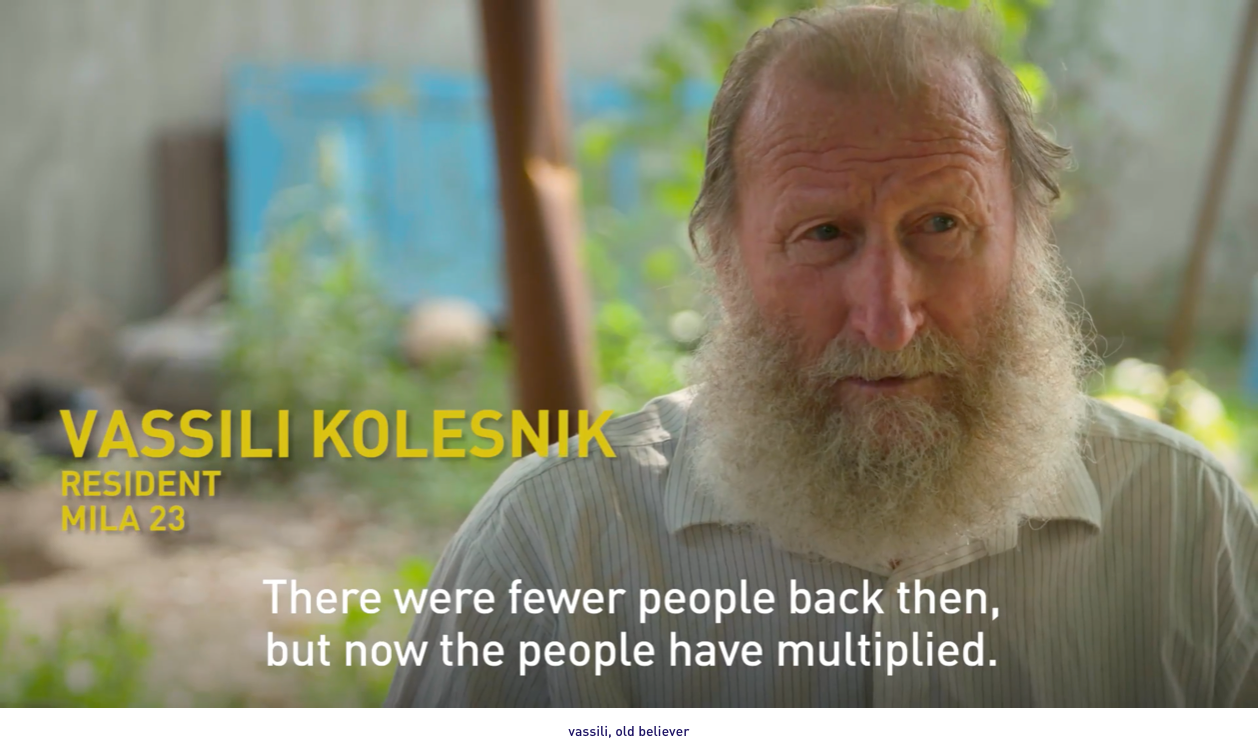
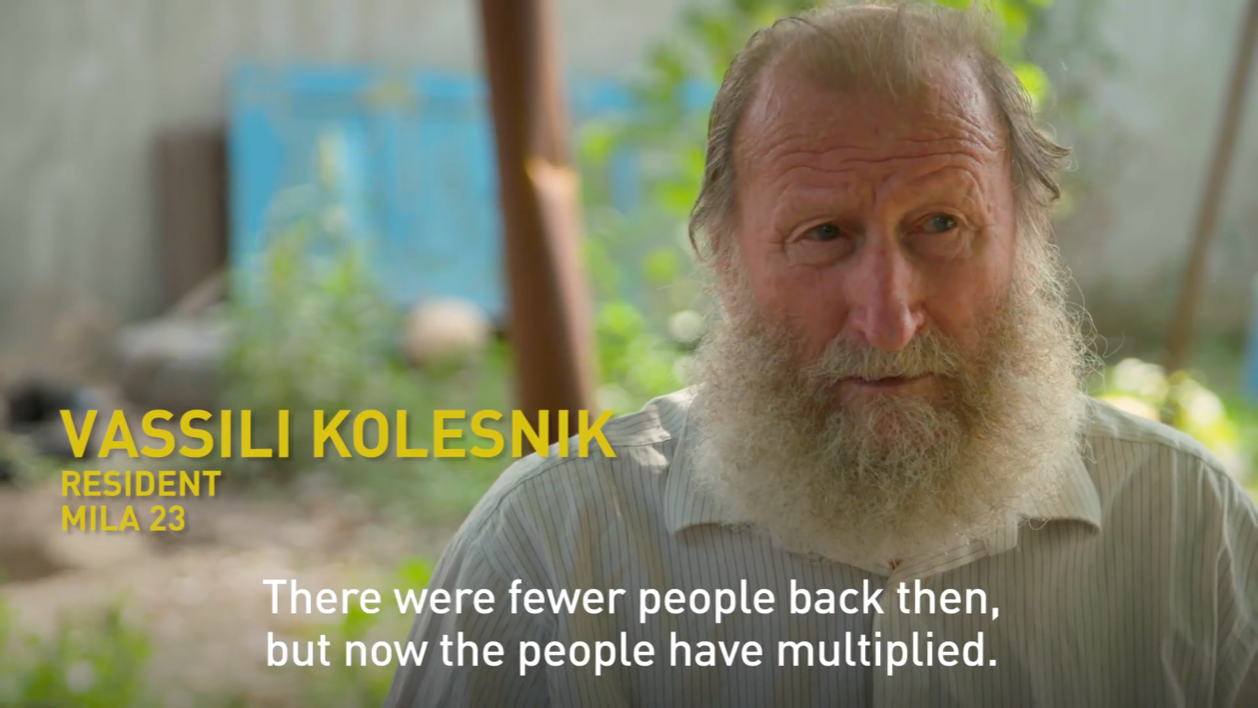
updated responsiveness on article screen Mila23

diff --git a/src/app/screens/Mila23Screen.js b/src/app/screens/Mila23Screen.js
@@ -26,15 +26,15 @@ export default class MicroPlasticScreen extends BaseScreen {
         />
       </Section>
 
-      <Section className="Section--black Section--auto-height">
+      <Section className="Section--black Section--auto-height pt-lg-50px">
 
-        <div className="Image mt-50px">
+        <div className="Image">
           <Video showMuteButton={false} showPlayButton={true} autoPlay={false} poster={`assets/img/player_poster_4.png`}
                  sources={[{src: asset('assets/vid/landing-screen-intro.mp4'), type: 'video/mp4'}]}
                  className="Video--max-width-1257 Video--cursor-pointer"
           />
           <div className="small-title text-center white mt-20px">
-            Gabor Bordos of Wessling explains what sorts of microplastics were found.
+            vassili
           </div>
         </div>
 
@@ -87,7 +87,7 @@ export default class MicroPlasticScreen extends BaseScreen {
 
       <Section className="Section--black-and-white Section--auto-height">
         <div className="max-width-1100 mt-50px">
-          <img src={asset('assets/img/birds.png')}/>
+          <img src={asset('assets/img/birds.png')} className="img-fluid"/>
         </div>
       </Section>
 
@@ -125,7 +125,7 @@ export default class MicroPlasticScreen extends BaseScreen {
                  sources={[{src: asset('assets/vid/landing-screen-intro.mp4'), type: 'video/mp4'}]}
                  className="Video--max-width-1257 Video--cursor-pointer"
           />
-          <div className="small-title text-center">
+          <div className="small-title text-center mt-20px">
             vassili, old believer
           </div>
         </div>
@@ -157,7 +157,7 @@ export default class MicroPlasticScreen extends BaseScreen {
               To become a champion you need to be determined – and living in the waters of the Danube Delta trains your
               determination, because here you have only yourself to rely on.”
             </h2>
-            <div className="quote-author primary mt-30px">
+            <div className="quote-author primary white-sm mt-30px">
               Ivan Patzaichin
             </div>
             <div className="quote-author-position mt-10px">
@@ -173,7 +173,7 @@ export default class MicroPlasticScreen extends BaseScreen {
               </div>
             </div>
           </div>
-          <div className="text-center">
+          <div className="text-center d-flex">
             <img src={asset('/assets/img/ivan.png')} className="img-fluid"/>
           </div>
 
@@ -186,8 +186,7 @@ export default class MicroPlasticScreen extends BaseScreen {
                 to escape the isolation of the Danube Delta and the limited number of options they had for personal
                 development.
                 <img src={asset('/assets/img/ivan.png')} className="img-fluid float-md-right mw-sm-100 mw-md-300 mb-50px mt-30px ml-20px"/>
-                <br/>
-                <br/>
+
               </div>
               <div className="Paragraph__content">
                 “Also, in order to become a champion, you need to be determined – and living in the waters of the Danube

diff --git a/src/style/Core/_Slick.scss b/src/style/Core/_Slick.scss
@@ -98,6 +98,9 @@
 .slideWrapper {
   padding: 40px;
   width: 780px;
+  @include mobile {
+    padding: 5px;
+  }
 }
 
 .slideImage {
@@ -111,6 +114,9 @@
 .center .slick-slide.slick-center {
   transform: scale(1.3);
   z-index: 2;
+  @include mobile {
+    transform: none;
+  }
 }
 .slick-slider {
   width: 200%;

diff --git a/src/style/Core/_Helpers.scss b/src/style/Core/_Helpers.scss
@@ -33,6 +33,12 @@
   color: $white-color !important;
 }
 
+.white-sm {
+  @include mobile {
+    color: $white-color !important;
+  }
+}
+
 .img-fluid {
   max-width: 100%;
   height: auto;
@@ -123,6 +129,10 @@
 
 .d-none {
   display: none;
+}
+
+.d-flex {
+  display: flex;
 }
 
 .small-title {

diff --git a/src/style/Core/_Sizes.scss b/src/style/Core/_Sizes.scss
@@ -66,6 +66,13 @@
   @include fluid-attr("padding-bottom", 45px, 40px);
 }
 
+.pt-lg-50px {
+  padding-top: 50px;
+  @include mobile {
+    padding-top: 0;
+  }
+}
+
 .pb-80px {
   @include fluid-attr("padding-bottom", 45px, 80px);
 }

diff --git a/src/style/Core/_Utils.scss b/src/style/Core/_Utils.scss
@@ -36,6 +36,11 @@
     line-height: rem(106px);
     margin-top: -7px;
     margin-right: 10px;
+    @include mobile {
+      font-size: rem(61px);
+      line-height: rem(73px);
+      margin-top: -14px;
+    }
   }
 }
 .primary {

diff --git a/src/style/Components/_Video.scss b/src/style/Components/_Video.scss
@@ -6,6 +6,9 @@
     left: 50%;
     top: 50%;
     transform: translate(-50%, -50%);
+    @include mobile {
+      transform: translate(-50%, -50%) scale(0.6);
+    }
   }
 
   &--cursor-pointer {
